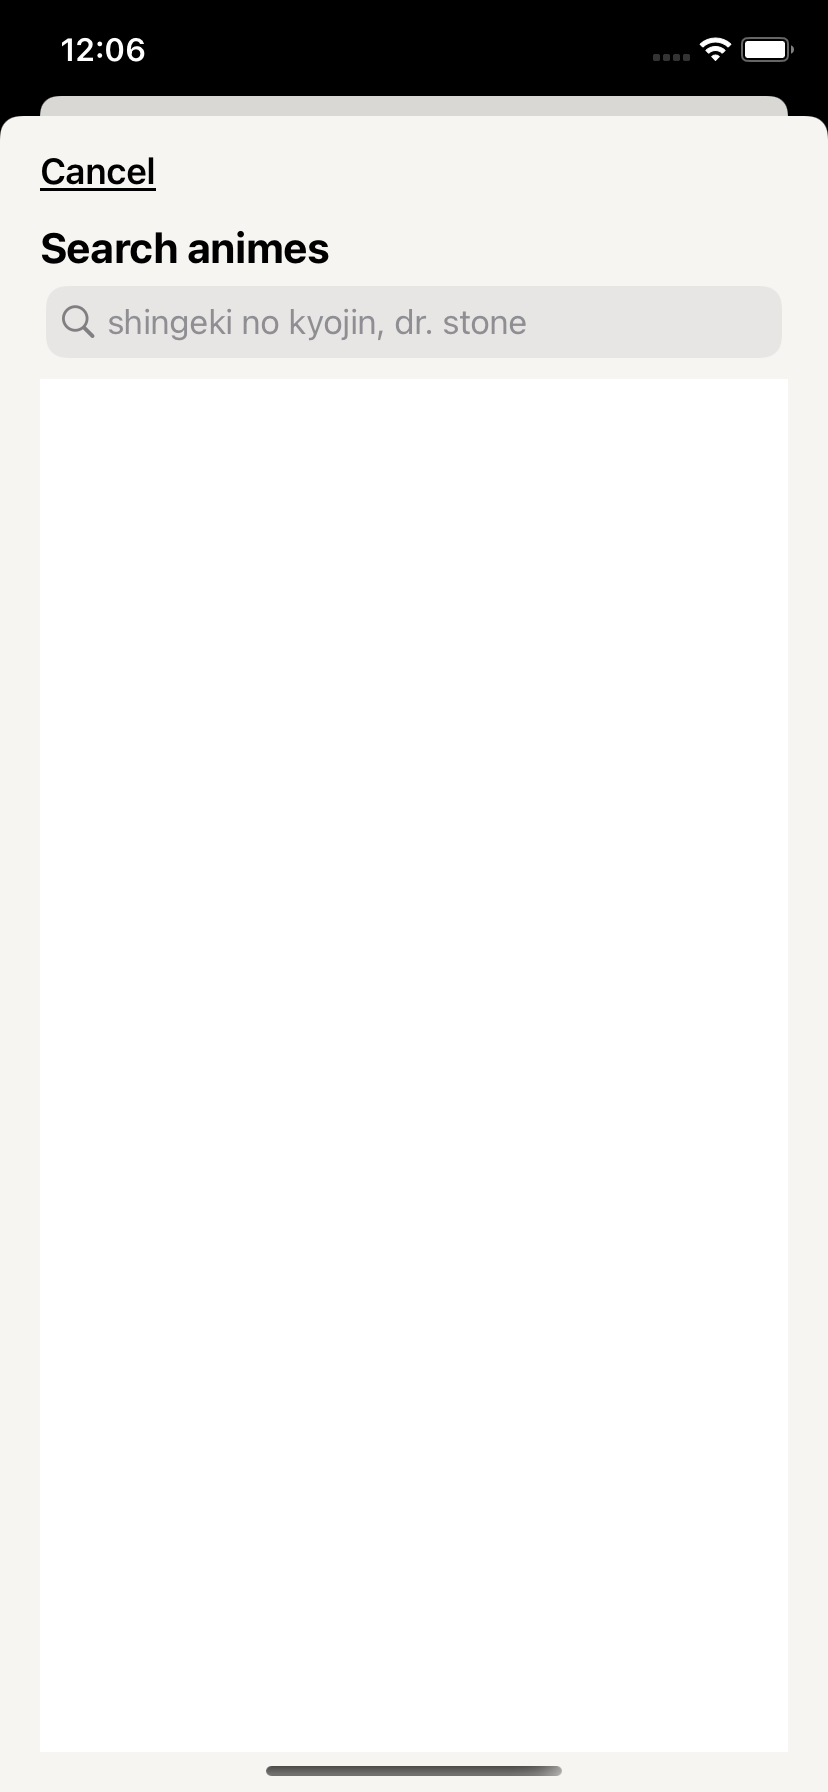
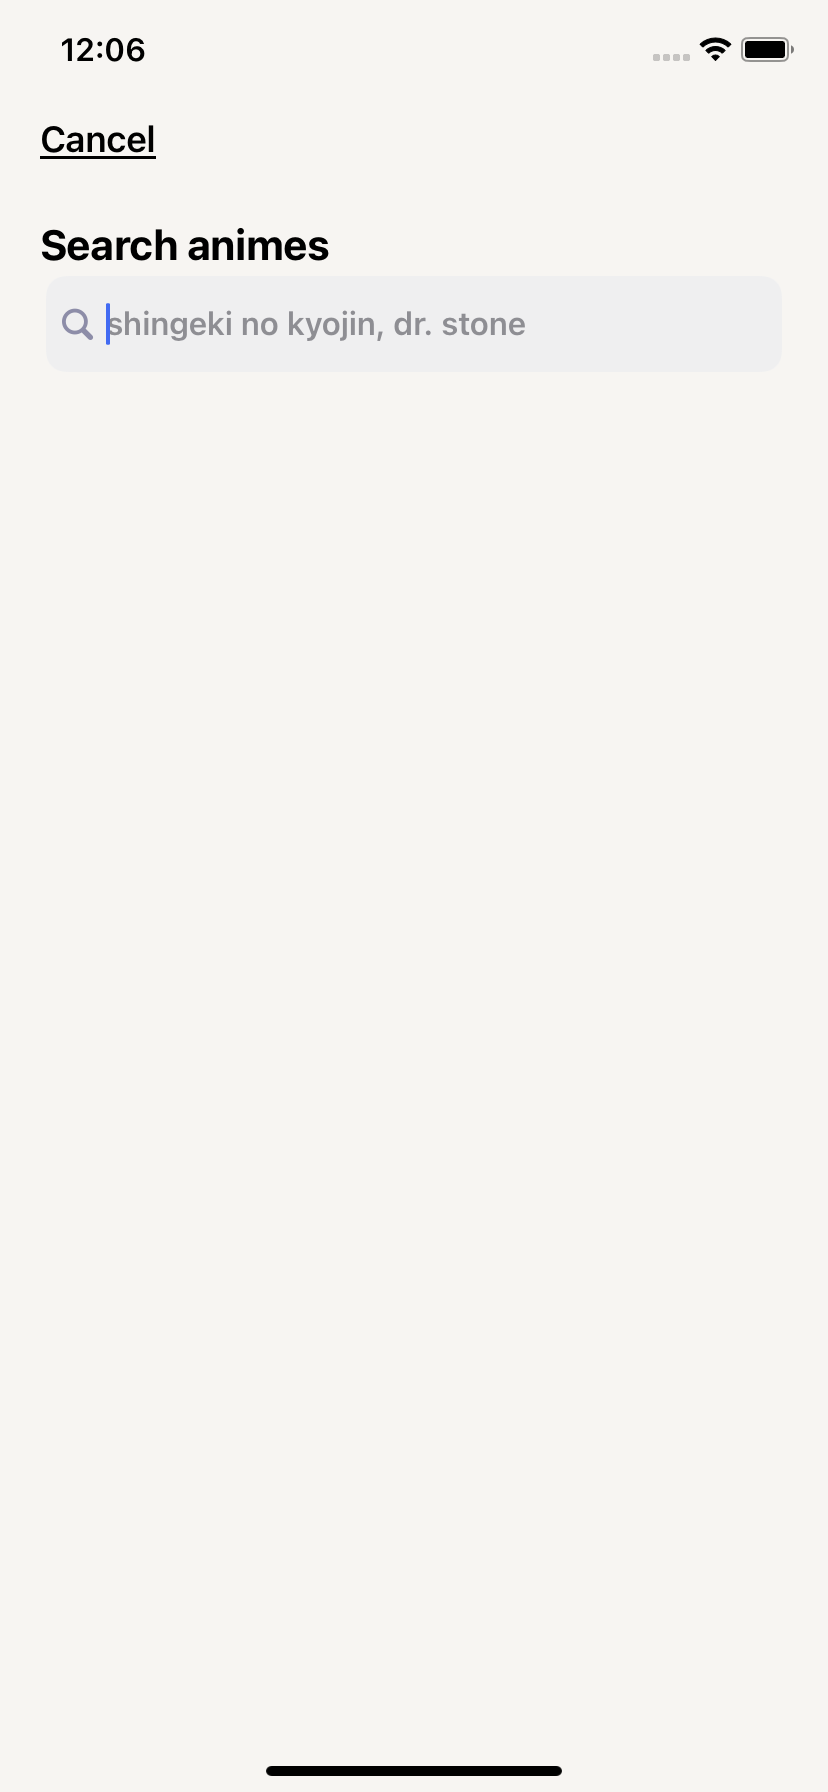
searchbar UI + readme image update

diff --git a/AnimeCalendar/AnimeCalendar/Scenes/Screens/NewAnime/Components/NewAnimeSearchBar/NewAnimeSearchBarComponent.swift b/AnimeCalendar/AnimeCalendar/Scenes/Screens/NewAnime/Components/NewAnimeSearchBar/NewAnimeSearchBarComponent.swift
@@ -29,11 +29,23 @@ extension NewAnimeSearchBarComponent {
     super.viewDidLoad()
     configureView()
   }
+
+  override func viewDidLayoutSubviews() {
+    super.viewDidLayoutSubviews()
+  }
 }
 
 extension NewAnimeSearchBarComponent: ScreenComponent {
+  // TODO: Searchbar background color changes in DarkMode
   func configureView() {
+    newAnimeSearchBar.becomeFirstResponder()
+    newAnimeSearchBar.searchBarStyle = .minimal
+    newAnimeSearchBar.autocapitalizationType = .none
     newAnimeSearchBar.placeholder = "shingeki no kyojin, dr. stone"
+    newAnimeSearchBar.searchTextField.backgroundColor = Color.white
+    newAnimeSearchBar.searchTextField.font = UIFont.boldSystemFont(ofSize: 16)
+    newAnimeSearchBar.searchTextField.textColor = Color.cobalt
+    newAnimeSearchBar.searchTextField.leftView?.tintColor = Color.cobalt
   }
 
   func configureSubviews() {}

diff --git a/AnimeCalendar/AnimeCalendar/Scenes/Screens/NewAnime/NewAnimeScreen.swift b/AnimeCalendar/AnimeCalendar/Scenes/Screens/NewAnime/NewAnimeScreen.swift
@@ -67,7 +67,7 @@ private extension NewAnimeScreen {
     let newAnimeSearchBarView: UIView = newAnimeSearchBar.view
     newAnimeSearchBarView.translatesAutoresizingMaskIntoConstraints = false
     NSLayoutConstraint.activate([
-      newAnimeSearchBarView.topAnchor.constraint(equalTo: newAnimeContainerView.topAnchor),
+      newAnimeSearchBarView.topAnchor.constraint(equalTo: newAnimeContainerView.topAnchor, constant: 20),
       newAnimeSearchBarView.heightAnchor.constraint(equalTo: newAnimeContainerView.heightAnchor, multiplier: 0.09),
       newAnimeSearchBarView.leadingAnchor.constraint(equalTo: newAnimeContainerView.leadingAnchor),
       newAnimeSearchBarView.trailingAnchor.constraint(equalTo: newAnimeContainerView.trailingAnchor),
